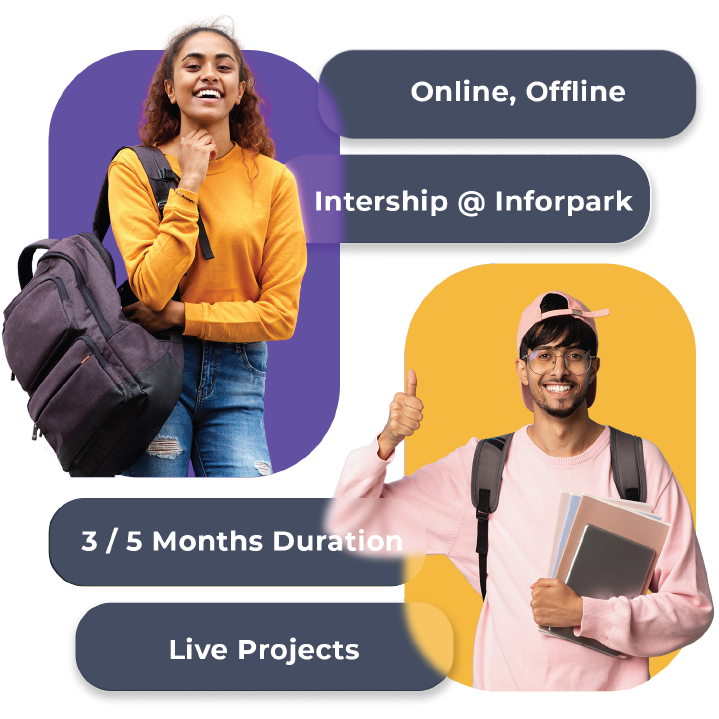
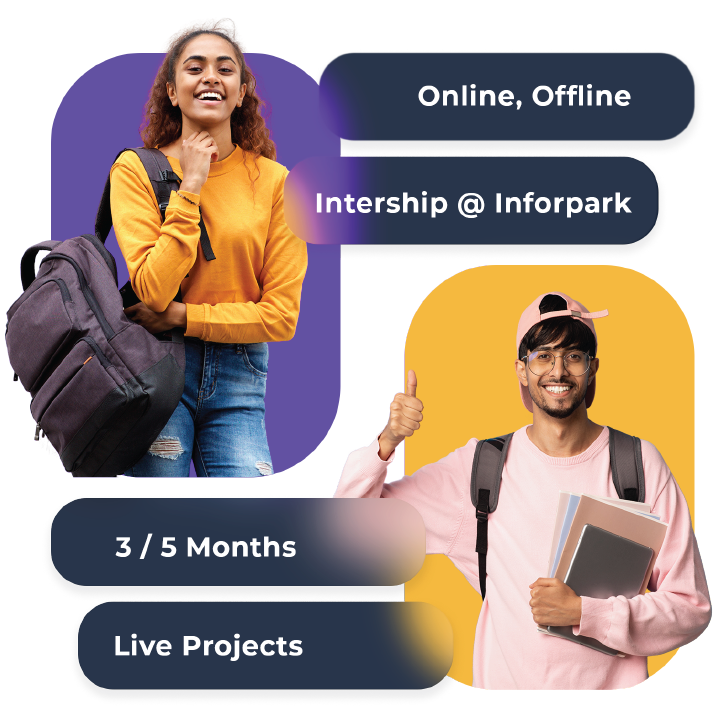
commit7

diff --git a/css/style.css b/css/style.css
@@ -113,9 +113,6 @@ header{
     /* padding: 5px; */
     /* padding: 5px 10px; */
     
-  
-
-
 }
 .logo:before {
     content: '';
@@ -133,6 +130,16 @@ header{
     right: 180px;
     position: fixed;
 }
+.dark-logo{
+    display: none;
+}
+.light .light-logo{
+    display: none;
+}
+.light .dark-logo{
+    display: block;
+}
+
 .scroll-start .logo:before , .scroll-start .logo:after{
     display: none;
 }
@@ -412,6 +419,7 @@ h1.heading{
     gap: 20px;
     align-items: center;
     z-index: 1;
+    flex-flow: wrap;
 }
 .shape1 {
     position: absolute;
@@ -504,6 +512,15 @@ h1.heading{
     overflow: hidden;
     border-top: 1px solid var(--gray2);
     border-bottom: 1px solid var(--gray2);
+}
+.light div#tools .scrolling-text_inner {
+    background-color: #00000024;
+    mask-image: none!important;
+    border: none;
+}
+.light div#tools {
+
+    mask-image: none!important;
 }
 .placement-marquee .scrolling-text_inner {
 
@@ -891,7 +908,9 @@ a.thumbnail-vid img{
 /* testimonials start */
 
 
-
+.light .testimonial{
+    background: none;
+}
 .testimonial:after {
     position: absolute;
     top: -0 !important;
@@ -908,7 +927,7 @@ a.thumbnail-vid img{
 }
 .light .testimonial:after {
 
-    background: #d2d2d2;
+    display: none;
 
 }
 .testimonial {
@@ -971,6 +990,9 @@ a.thumbnail-vid img{
     background-size: contain;
     opacity: .6;
     transform: rotate(180deg);
+}
+.light .carousel-inner:before, .light .carousel-inner:after{
+    filter: invert(1);
 }
 
 /* ------testimonial  close-------*/
@@ -1382,7 +1404,7 @@ div#modal-container {
 }
 .light .card:after {
 
-    background-image: linear-gradient(to bottom, rgba(0, 0, 0, 0) 0%, #d51c23b0);
+    background-image:linear-gradient(to bottom, rgba(0, 0, 0, 0) 0%, #00000030);
 
   }
 .card:nth-child(1):before {
@@ -1471,89 +1493,6 @@ div#modal-container {
 }
 
   /* cards end */
-
-  /* newsbox start */
-
-  .newsbox {
-    background-color: rgba(255,255,255,.9);
-    position: fixed;
-    overflow: unset;
-    bottom: 5rem;
-    z-index: 1;
-    right: 1px;
-    z-index: 9;
-    
-    padding-bottom: 1rem;
-    border-radius: 6px 0 0 6px;
-    box-shadow: 6px 8px 20px rgba(0,0,0,.5);
-    transition: all .3s linear;
-    width: 0;
-      padding: 0;
-      z-index: 99;
-      }
-
-.newsbox:hover{
-        width: 360px;
-        padding: 15px;
-        }
-      .newsbox-a {
-        transform: rotate(-90deg);
-        position: absolute;
-        left: -71px;
-        bottom: 2.6rem;
-        background-color: var(--red);
-        padding: 5px 10px;
-        border-radius: 0.3rem 0.3rem 0 0;
-        display: flex;
-        white-space: nowrap;
-    }
-    .newsbox-a h4{
-        color: white;
-    }
-    .newsbox .news-container {
-        max-height: 120px;
-        overflow: auto;
-        transition: all .3s linear;
-    }
-    .newsbox ul.newslist {
-        position: relative;
-        top: 0;
-        animation: scroll 20s linear 1s infinite;
-        transition: all 7s linear;
-        padding: 0;
-    }
-    
-@keyframes scroll {
-    100% {
-        top: -450px;
-    }
-
-}
-.newsbox ul.newslist li {
-    margin-bottom: 0.3rem;
-    padding-left: 12px;
-    padding-bottom: 0.3rem;
-    border-bottom: 1px dashed rgba(0,0,0,.2);
-    max-height: none;
-    overflow: hidden;
-    line-height: 1.2rem;
-    margin-top: 0.3rem;
-}
-.newsbox ul.newslist li a {
-    display: flex;
-    padding: 5px;
-}
-.newsbox ul.newslist li a:before {
-    content: "\f105";
-    font-family: "Font Awesome 5 Free";
-    font-weight: 900;
-    margin-left: -12px;
-    font-size: 1rem;
-    margin-right: 0.35rem;
-    color: var(--red);
-}
-
-
 
 
 
@@ -1719,14 +1658,20 @@ justify-content: center;
 
 .switch{
     position: fixed;
-    left: 10px;
-    top:25px;
+    right: 0px;
+    top: 20vh;
     z-index: 999;
     cursor: pointer;
+    background-color: var(--white);
+    padding:8px;
+    border-radius: 10px 0 0 10px;
+    display: flex;
+    align-items: center;
+    justify-content: center;
 }
 .switch img{
-    width: 35px;
-    height: 35px;
+    width: 30px;
+    height: 30px;
 }
 .light .switch img{
     filter: invert(1);
@@ -1734,4 +1679,17 @@ justify-content: center;
 .banner-mob{
     display: none;
     width: 100%;
+}
+.whatsapp{
+    width: 45px;
+    border-radius: 50%;
+    background: #30a61a;
+    height: 45px;
+    display: flex;
+    align-items: center;
+    justify-content: center;
+}
+.whatsapp img{
+    width: 25px;
+    height: 25px;
 }

diff --git a/index.html b/index.html
@@ -46,7 +46,9 @@
 
 				<div class="nav">
 					<div class="logo header-logo">
-						<img src="images/logo4.png" alt="logo">
+						<img src="images/logo4.png" class="light-logo" alt="logo">
+						<img src="images/logo.png" class="dark-logo" alt="logo">
+
 					</div>
 
 					<!-- <a href="#placements" class="nav-items">Placements</a> -->
@@ -58,8 +60,10 @@
 
 			</div>
 			<div class="header-center">
-				<div class="logo">
-					<img src="images/logo4.png" alt="logo">
+				<div class="logo header-logo">
+					<img src="images/logo4.png" class="light-logo" alt="logo">
+					<img src="images/logo.png" class="dark-logo" alt="logo">
+
 				</div>
 			</div>
 			<div class="header-right">
@@ -88,10 +92,13 @@
 						development courses. It refers to the client side as well as the server side of a website or web
 						application.</h6>
 
-					<div class="btn-container">
+					<div class="btn-container" style="align-items: center;">
 						<a class="btn-site btn-anim button btn-modal">Join Now
 						</a>
 						<a class="btn-site2  btn-anim2"></i>Download Brochure
+						</a>
+						<a href="" class="whatsapp">
+							<img src="images/whatsapp-icon.png">
 						</a>
 					</div>
 
@@ -105,7 +112,7 @@
 
 						</div>
 						<div class="banner__item banner__item--3">
-							<div class="ad_banner ad_2"><span>3 / 5</span> <span> Months</span><span> Duration</span>
+							<div class="ad_banner ad_2">3 / 5 Months
 							</div>
 						</div>
 						<div class="banner__item banner__item--4">
@@ -122,50 +129,7 @@
 
 
 				</div>
-				<div class="newsbox">
-					<a title="Latest News" class="newsbox-a">
-						<h4>What's new!</h4>
-					</a>
-					<div class="news-container">
-						<ul class="newslist custscroll" id="whatsnew">
-							<li>
-								<a>Job-focused Full Stack Web Development Training.</a>
-							</li>
-							<li>
-								<a>Job-focused Full Stack Web Development Training.</a>
-							</li>
-							<li>
-								<a>Job-focused Full Stack Web Development Training.</a>
-							</li>
-							<li>
-								<a>Job-focused Full Stack Web Development Training.</a>
-							</li>
-							<li>
-								<a>Job-focused Full Stack Web Development Training.</a>
-							</li>
-							<li>
-								<a>Job-focused Full Stack Web Development Training.</a>
-							</li>
-							<li>
-								<a>Job-focused Full Stack Web Development Training.</a>
-							</li>
-
-
-							<li>
-								<a>Job-focused Full Stack Web Development Training.</a>
-							</li>
-							<li>
-								<a>Job-focused Full Stack Web Development Training.</a>
-							</li>
-							<li>
-								<a>Job-focused Full Stack Web Development Training.</a>
-							</li>
-
-
-						</ul>
-					</div>
-				</div>
-
+				
 			</div>
 
 		</div>
@@ -777,11 +741,15 @@
 
 				<div class="footer-column">
 					<div class="logo">
-						<img src="images/logo4.png" alt="logo">
+						<img src="images/logo4.png" class="light-logo" alt="logo">
+						<img src="images/logo.png" class="dark-logo" alt="logo">
 					</div>
 					<div class="footer-child pt-3">
 
-						<h6>Office No: 3A-4, Third Floor,<br>
+						<h6>
+							GALTech Technologies Private Limited
+							<br>
+							Office No: 3A-4, Third Floor,<br>
 							Indeevaram, Special Economic Zone (SEZ),<br>
 							Infopark Thrissur Campus, Koratty P O,<br>
 							Thrissur District - 680308</h6>
@@ -803,7 +771,7 @@
 
 				</div>
 				<div class="  footer-column">
-					<h5 class="footer-head">Our Company<span></span></h5>
+					<h5 class="footer-head">Quick Links<span></span></h5>
 					<div class="row">
 						<div class="nav2">
 							<a href="" class="nav-items">Home</a>

diff --git a/js/gsap.js b/js/gsap.js
@@ -20,7 +20,7 @@ document.addEventListener("DOMContentLoaded", function() {
         .from(" .hero-text", { opacity: 0, y: 40, ease: "back", delay: .5 }, "-=1")
         .from(".btn-container", { opacity: 0, y: 40, ease: "back", delay: .7 }, "-=1")
 
-        .from(".logo, .header-left, .header-right, .switch", { opacity: 0, y: -40, ease: "back", delay: 0 }, "-=1")
+        .from(".header-logo, .header-left, .header-right, .switch", { opacity: 0, y: -40, ease: "back", delay: 0 }, "-=1")
        
         .from(".banner__item--1", { opacity: 0, y: -40, ease: "back", delay: 0.15 }, "-=1")
         .from(".ad_1", { opacity: 0, y: -40, ease: "back", delay: 0.3 }, "-=1")

diff --git a/css/my-style.css b/css/my-style.css
@@ -425,15 +425,7 @@ a:hover {
 	.placement-left {
 		width: 50%
 	}
-    .switch{
-        position: fixed;
-        left: auto;
-        right: 15px;
-        top:auto;
-        bottom: 60px;
-        z-index: 999;
-        cursor: pointer;
-    }
+   
 }
 
 @media (min-width:768px) {
